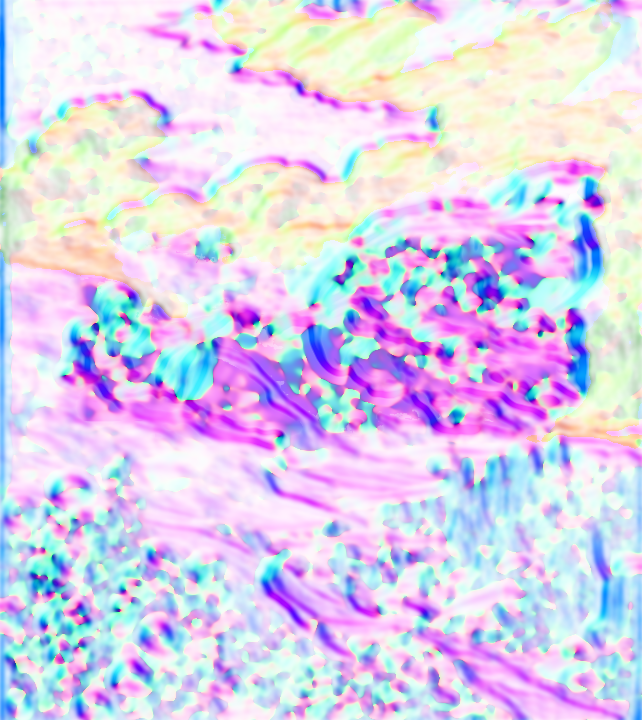
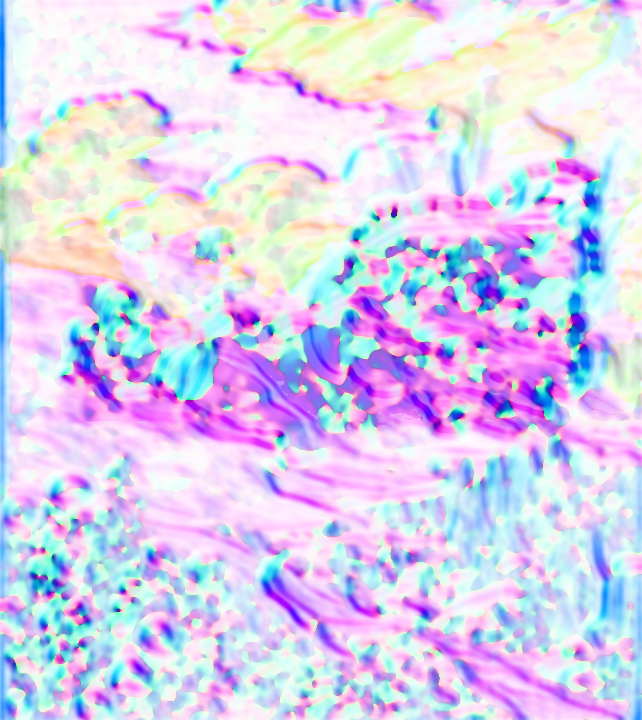
A more dramatic rift: the sky torn raggedly open around God
Ragged torn edge (no straight frame line), a wide burning seam, a deeper
void, the surrounding sky darkened like a storm, rays and cracks of light
breaking out. The seam and cracks are painted with a finer brush (they
join the figure mask in the flow maps) so the brushwork keeps them sharp.

diff --git a/public/main.js b/public/main.js
@@ -45,8 +45,8 @@ const load = src => new Promise((res, rej) => { const i = new Image(); i.onload 
 // each picture is one painting grown past Michelangelo's frame; wide and tall screens are cut from it around its focus
 const shape = innerWidth / innerHeight >= .8 ? 'wide' : 'tall';
 if (!gl) { root.classList.add('no-gl'); ready(); }
-else fetch('/img/scene.json?v=1791889876').then(r => r.json()).then(meta =>
-  Promise.all([shape === 'wide' ? 'night-wide' : 'night', shape === 'wide' ? 'night-wide-flow' : 'night-flow', shape === 'wide' ? 'day' : 'day-tall', shape === 'wide' ? 'day-flow' : 'day-tall-flow', shape === 'wide' ? 'supper' : 'supper-tall', shape === 'wide' ? 'supper-flow' : 'supper-tall-flow'].map(n => load(`/img/${n}.webp?v=1791889876`)))
+else fetch('/img/scene.json?v=1791890204').then(r => r.json()).then(meta =>
+  Promise.all([shape === 'wide' ? 'night-wide' : 'night', shape === 'wide' ? 'night-wide-flow' : 'night-flow', shape === 'wide' ? 'day' : 'day-tall', shape === 'wide' ? 'day-flow' : 'day-tall-flow', shape === 'wide' ? 'supper' : 'supper-tall', shape === 'wide' ? 'supper-flow' : 'supper-tall-flow'].map(n => load(`/img/${n}.webp?v=1791890204`)))
     .then(ims => paint(gl, ims, meta[shape])))
   .catch(e => { console.error(String(e && e.message || e)); root.classList.add('no-gl'); ready(); });   // log, then fall back
 

diff --git a/public/index.html b/public/index.html
@@ -19,7 +19,7 @@
 <link rel="preconnect" href="https://fonts.googleapis.com">
 <link rel="preconnect" href="https://fonts.gstatic.com" crossorigin>
 <link rel="stylesheet" href="https://fonts.googleapis.com/css2?family=Cinzel:wght@400;500&family=Cormorant+Garamond:ital,wght@0,300;0,400;1,300;1,400&display=swap">
-<link rel="stylesheet" href="/style.css?v=1791889876">
+<link rel="stylesheet" href="/style.css?v=1791890204">
 <script>document.documentElement.classList.add('js')</script>
 </head>
 <body>
@@ -84,6 +84,6 @@
 
 
 <noscript><style>.reveal,.reveal-words,.display .line>span{opacity:1!important;transform:none!important}</style></noscript>
-<script type="module" src="/main.js?v=1791889876"></script>
+<script type="module" src="/main.js?v=1791890204"></script>
 </body>
 </html>

diff --git a/tools/rift.py b/tools/rift.py
@@ -24,6 +24,12 @@ while q:
 s = ~seen
 Sm = Image.fromarray((s * 255).astype(np.uint8)).filter(ImageFilter.MaxFilter(21)).filter(ImageFilter.MinFilter(21))
 s = np.asarray(Sm) > 127
+_r = np.random.default_rng(9)
+_n = np.asarray(Image.fromarray((_r.random((H // 22 + 1, W // 22 + 1)) * 255).astype(np.uint8)).resize((W, H), Image.BICUBIC), np.float32) / 255
+_n2 = np.asarray(Image.fromarray((_r.random((H // 7 + 1, W // 7 + 1)) * 255).astype(np.uint8)).resize((W, H), Image.BICUBIC), np.float32) / 255
+_sb = np.asarray(Sm.filter(ImageFilter.GaussianBlur(26)), np.float32) / 255
+FIG0 = np.asarray(Image.open('whole/day-figures.png').convert('L')) > 60
+s = ((_sb + (_n * .7 + _n2 * .3 - .5) * .55) > .5) | (s & FIG0)                 # the tear grows ragged teeth into the sky
 def blurF(arr, r):
     return np.asarray(Image.fromarray(arr.astype(np.float32), 'F').filter(ImageFilter.GaussianBlur(r)), np.float32) if False else \
         np.asarray(Image.fromarray((np.clip(arr, 0, 1) * 255).astype(np.uint8)).filter(ImageFilter.GaussianBlur(r)), np.float32) / 255
@@ -35,42 +41,50 @@ rag = noise * .7 + fine * .3
 d1, d2, d3 = blurF(s, 18), blurF(s, 45), blurF(s, 120)
 outside = ~s
 lip = np.zeros((H, W), np.float32)
-seam = np.clip(1 - np.abs(d1 - .3 - .25 * (rag - .5)) / .16, 0, 1) * outside            # the burning edge, hugging the mantle
-glow = np.clip(d3 * 1.5, 0, 1) * outside
+seam = np.clip(1 - np.abs(d1 - .3 - .25 * (rag - .5)) / .3, 0, 1) * outside * np.clip((d1 - .04) / .1, 0, 1)   # the burning edge, wide and hot, only at the tear
+glow = np.clip(d3 * 2.2, 0, 1) * outside
+storm = np.clip(blurF(s.astype(np.float32), 200) * 3, 0, 1) * outside * (1 - glow * .6) * np.clip((1500 - np.mgrid[0:H, 0:W][0]) / 260., 0, 1)   # the sky around darkens like a storm
 yy, xx = np.mgrid[0:H, 0:W]
 keepout = np.clip((xx - 1120) / 140, 0, 1)                                    # leave God's arm and the hands in calm light
 lip *= keepout; seam *= keepout; glow *= .4 + .6 * keepout
 VOID = np.array([46, 16, 18], np.float32); FIRE = np.array([255, 222, 150], np.float32); WARM = np.array([255, 200, 130], np.float32)
 o = a.copy()
-o = o * (1 - glow[..., None] * .35) + WARM * glow[..., None] * .35
-o = o * (1 - seam[..., None] * .9) + FIRE * seam[..., None] * .9
+o = o * (1 - storm[..., None] * .55) + np.array([62, 50, 64], np.float32) * storm[..., None] * .55
+o = o * (1 - glow[..., None] * .55) + WARM * glow[..., None] * .55
+# rays of light thrown out of the tear
+cx_, cy_ = 1430, 1010; ang_ = np.arctan2(yy - cy_, xx - cx_); rr = np.hypot(xx - cx_, yy - cy_)
+rays = np.clip(np.sin(ang_ * 13 + 1.3) * .5 + np.sin(ang_ * 29 + .4) * .3 + .2, 0, 1) ** 3
+rays = rays * np.clip((rr - 380) / 120, 0, 1) * np.clip(1 - (rr - 380) / 700, 0, 1) * outside * keepout
+o = o * (1 - rays[..., None] * .35) + FIRE * rays[..., None] * .35
+o = o * (1 - seam[..., None]) + FIRE * seam[..., None] * 1.0
 o = o * (1 - lip[..., None] * .92) + VOID * lip[..., None] * .92
 # cracks of light running out from the seam across the sky
 cr = np.zeros((H, W), np.float32)
 ys, xs = np.where(seam > .6)
-for k in range(9):
+for k in range(22):
     i = rng.integers(len(xs)); x, y = float(xs[i]), float(ys[i])
-    if x < 1300: continue
+    if x < 1300 or y > 1300: continue
     gx, gy = np.gradient(d3)[1][int(y), int(x)], np.gradient(d3)[0][int(y), int(x)]
-    ang = np.arctan2(-gy, -gx); n = int(rng.uniform(60, 170)); w = rng.uniform(1.4, 2.8)
+    ang = np.arctan2(-gy, -gx); n = int(rng.uniform(90, 300)); w = rng.uniform(2, 4.5)
     for t in range(n):
         ang += rng.normal(0, .12); x += np.cos(ang) * 2; y += np.sin(ang) * 2
-        if not (0 <= x < W and 0 <= y < H) or s[int(y), int(x)]: break
+        if not (0 <= x < W and 0 <= y < 1420) or s[int(y), int(x)]: break
         r = w * (1 - t / n * .85); y0_, y1_, x0_, x1_ = int(y - 6), int(y + 7), int(x - 6), int(x + 7)
         m = (xx[y0_:y1_, x0_:x1_] - x) ** 2 + (yy[y0_:y1_, x0_:x1_] - y) ** 2 < r * r
         cr[y0_:y1_, x0_:x1_][m] = np.maximum(cr[y0_:y1_, x0_:x1_][m], 1 - t / n * .7)
         if rng.random() < .015:                                               # a branch
             pass
 cr = blurF(cr, 2) * outside
-o = o * (1 - cr[..., None] * .55) + FIRE * cr[..., None] * .55
+o = o * (1 - cr[..., None] * .9) + FIRE * cr[..., None] * .9
 L_ = a.mean(2) / 255; sat_ = (a.max(2) - a.min(2)) / 255
 FIG = np.asarray(Image.open('whole/day-figures.png').convert('L')) > 60          # Michelangelo's figures (robe, beard) are never the void
 skyin = s & (sat_ < .17) & (L_ > .5) & ~FIG
 vm = blurF(skyin.astype(np.float32), 3) * s
 heart = np.clip(1 - blurF(s.astype(np.float32), 40), 0, 1)                    # 0 deep inside, 1 at the edge
-voidc = VOID * (1 - heart[..., None] * .5) + np.array([130, 40, 30], np.float32) * heart[..., None] * .5
+voidc = np.array([18, 6, 10], np.float32) * (1 - heart[..., None] * .6) + np.array([150, 40, 25], np.float32) * heart[..., None] * .6
 o = np.where(s[..., None], a * (1 - vm[..., None]) + voidc * vm[..., None], o)
 o = np.where(FIG[..., None] & s[..., None], a, o)
 Image.fromarray(np.clip(o, 0, 255).astype(np.uint8)).save(out)
+Image.fromarray((np.clip(np.maximum(seam, cr * 1.5), 0, 1) * 255).astype(np.uint8)).save(out.replace('.png', '-seam.png'))
 Image.fromarray(np.clip(o, 0, 255).astype(np.uint8)).crop((860, 400, 2000, 1560)).resize((700, 712)).save(out.replace('.png', '-check.jpg'))
 print('saved', out)
